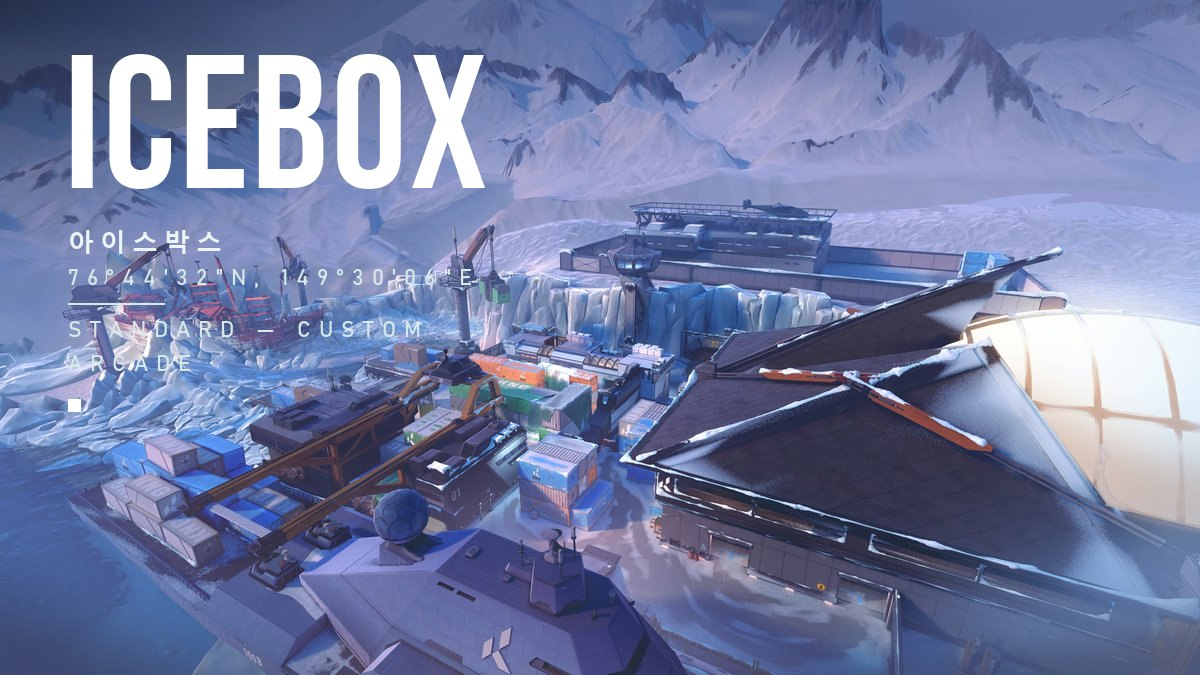
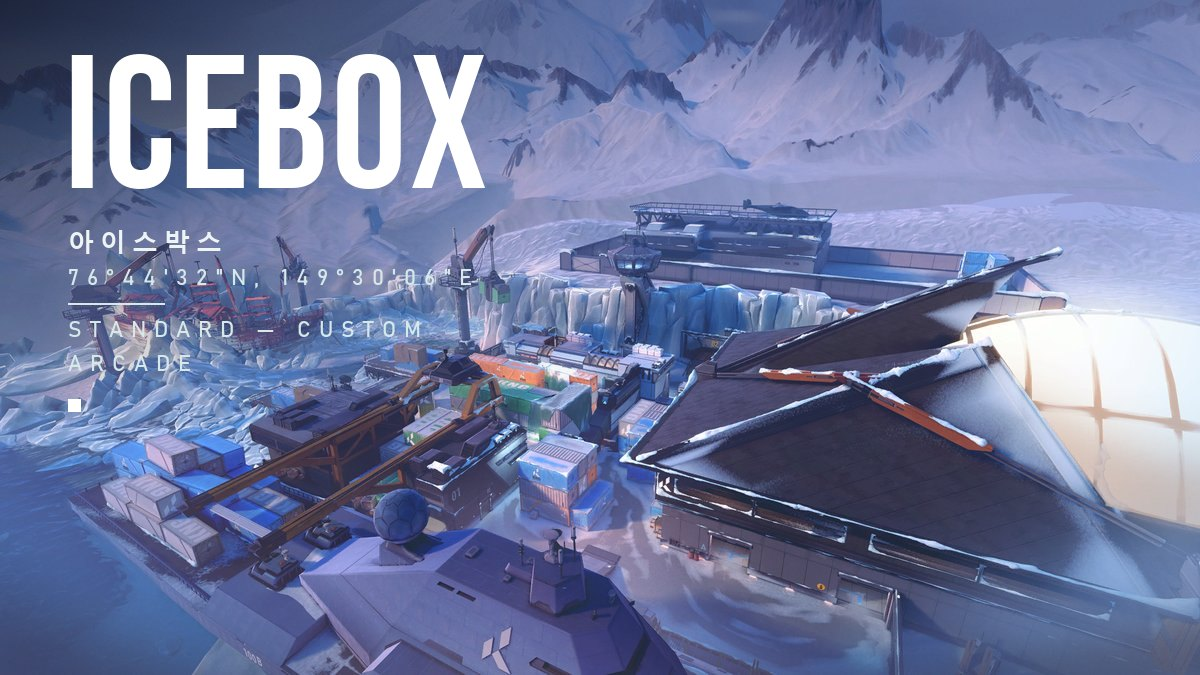
발로란트 맵 결과 이미지: 글줄 뒤 어두운 번짐을 넓혀 밝은 맵(코로드·아이스박스 등)에서도 읽히게

Changed region(s): [[0.0, 0.1244, 0.2775, 0.5911], [0.2775, 0.4667, 0.3083, 0.4978]]

diff --git a/scripts/맵결과이미지.py b/scripts/맵결과이미지.py
@@ -274,12 +274,12 @@ def valorant(im, key, name):
     sd = ImageDraw.Draw(shade)
     # 왼쪽→오른쪽으로 옅어지는 어두운 번짐에, 위→아래로 옅어지는 마스크를 곱한다
     for x in range(0, 760):
-        a = int(130 * (1 - x / 760) ** 1.5)
-        sd.line([(x, 0), (x, 330)], fill=(8, 10, 16, a))
+        a = int(165 * (1 - x / 760) ** 1.3)
+        sd.line([(x, 0), (x, 440)], fill=(8, 10, 16, a))
     fade = Image.new('L', (W, H), 0)
     fd = ImageDraw.Draw(fade)
-    for y in range(0, 330):
-        fd.line([(0, y), (W, y)], fill=int(255 * (1 - y / 330) ** 0.9))
+    for y in range(0, 440):
+        fd.line([(0, y), (W, y)], fill=int(255 * (1 - y / 440) ** 0.7))
     alpha = shade.getchannel('A')
     from PIL import ImageChops
     shade.putalpha(ImageChops.multiply(alpha, fade))
